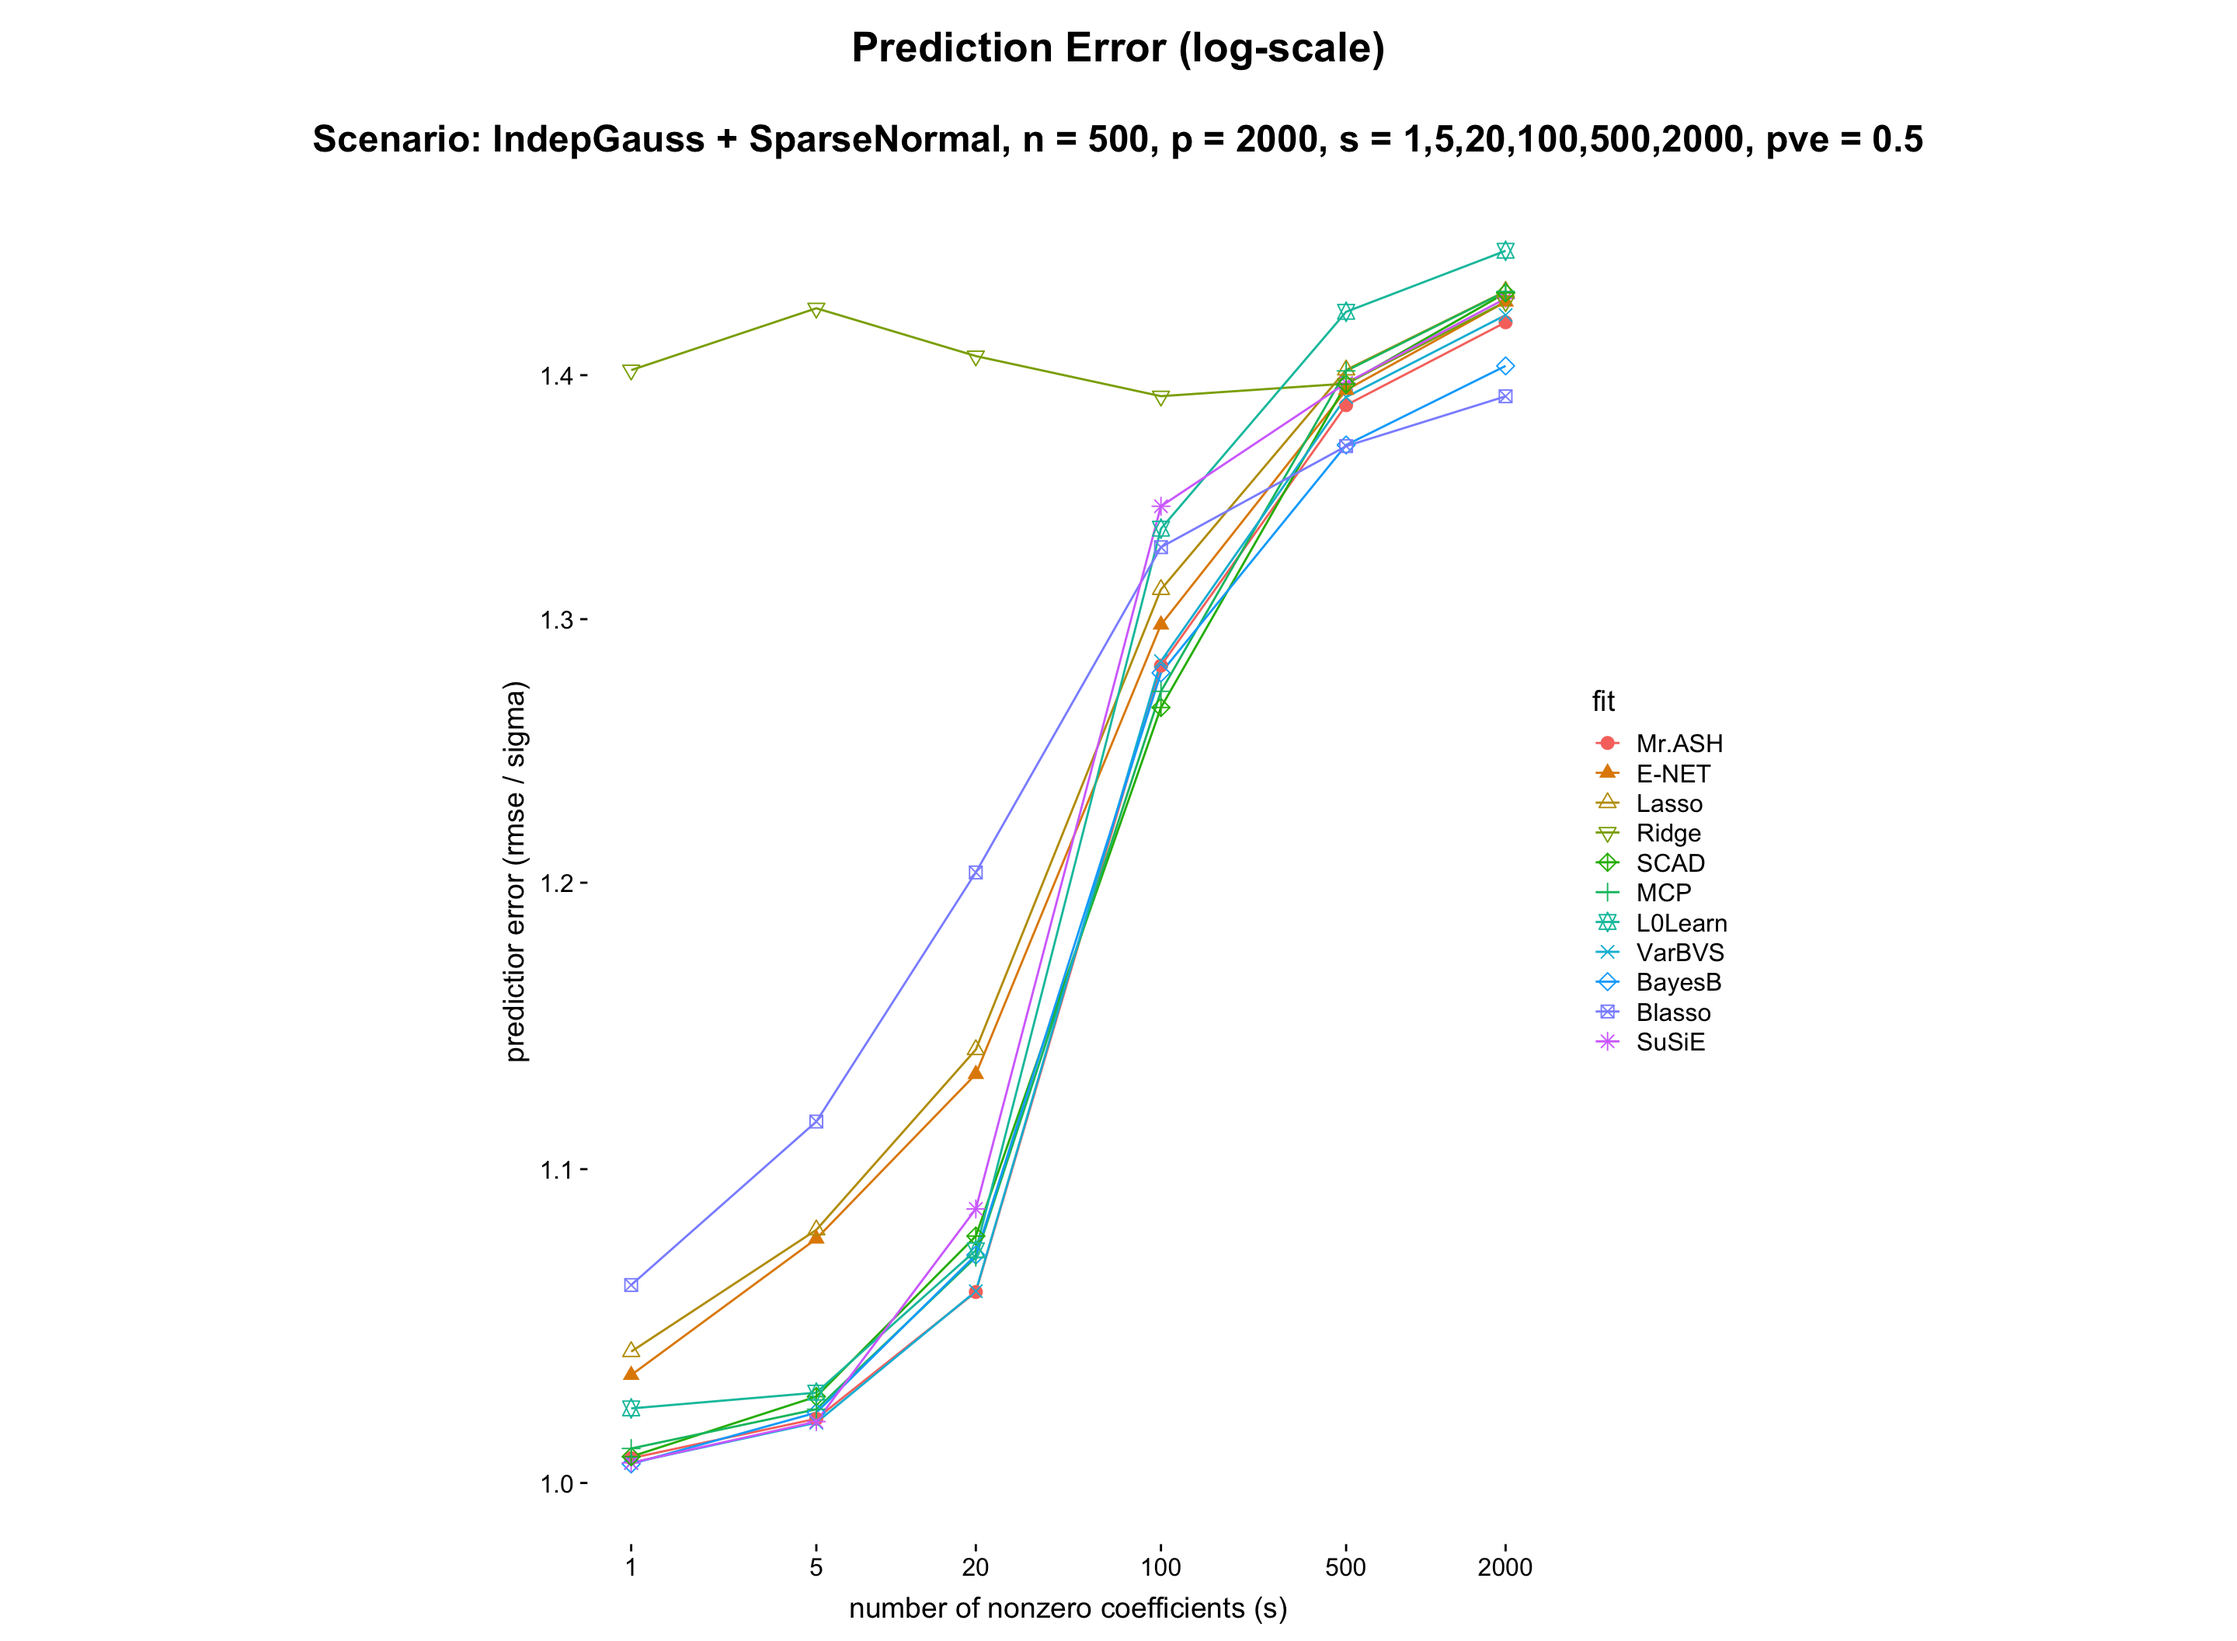
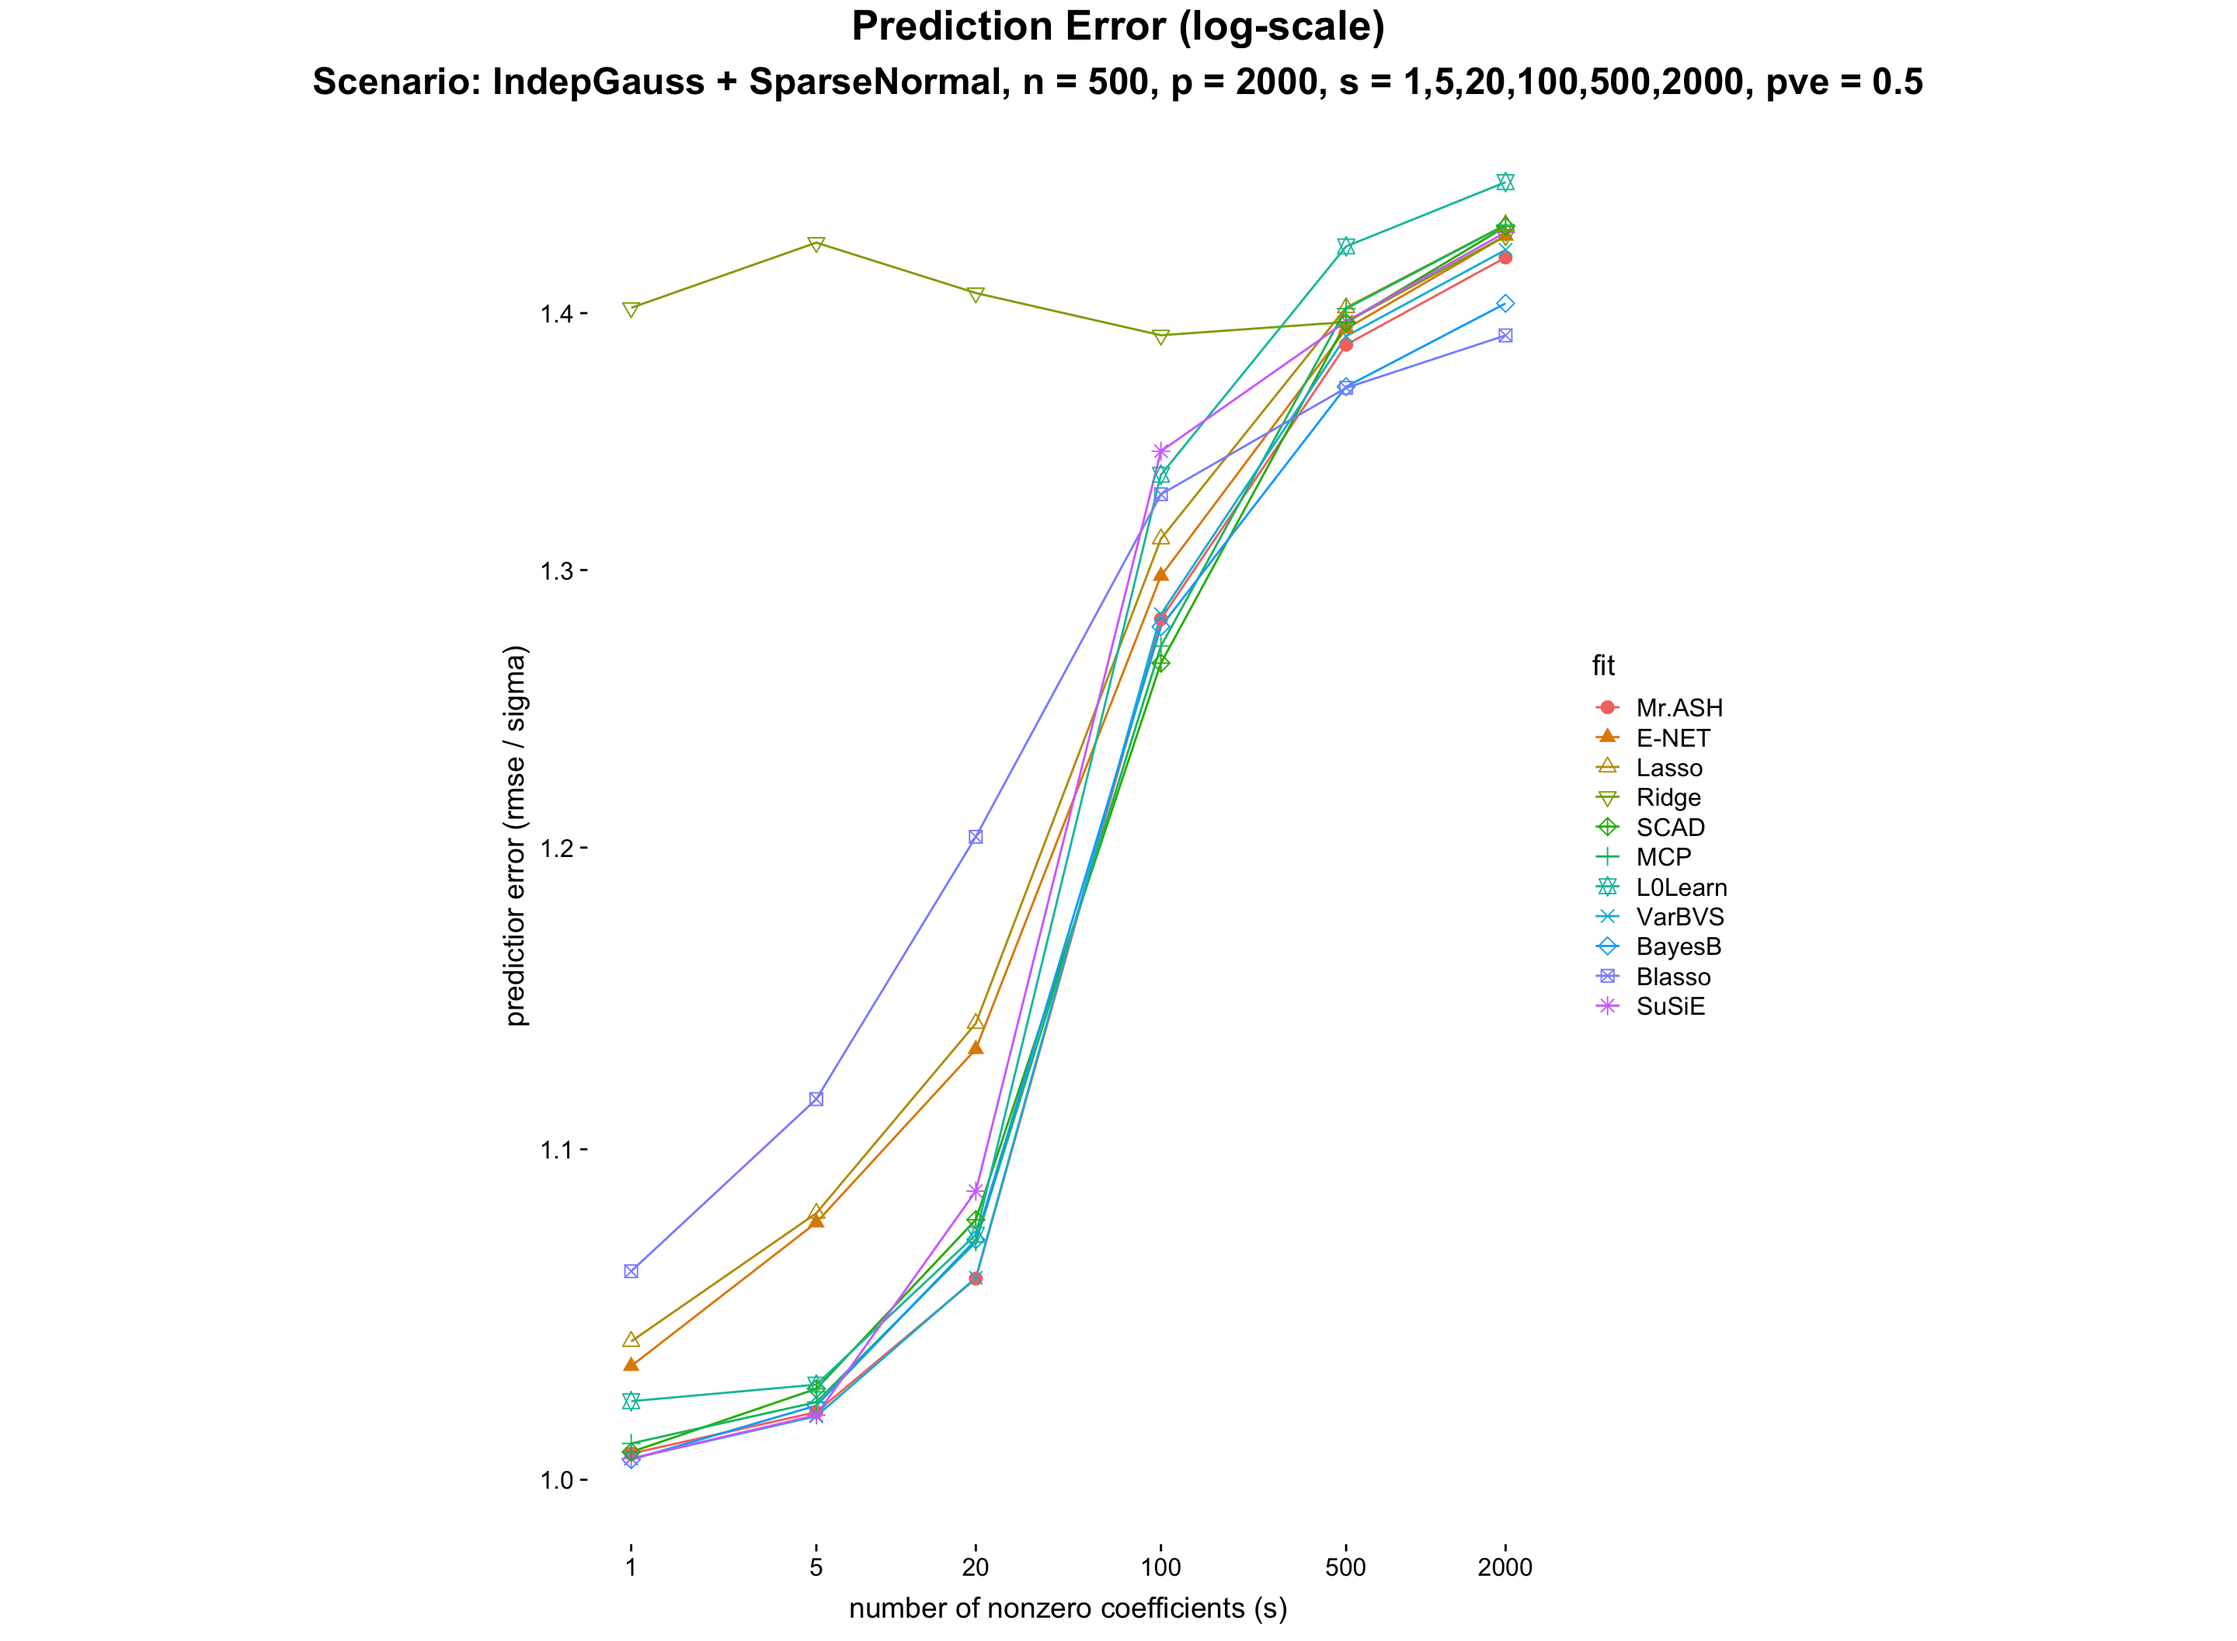
Build site.

diff --git a/docs/Plots_for_paper.html b/docs/Plots_for_paper.html
@@ -527,10 +527,10 @@ This reproducible <a href="http://rmarkdown.rstudio.com">R Markdown</a> analysis
 <div class="panel panel-default">
 <div class="panel-heading">
 <p class="panel-title">
-<a data-toggle="collapse" data-parent="#workflowr-checks" href="#strongRepositoryversionstrongahrefhttpsgithubcomstephenslabmrashworkflowtreeebfcea0cc584d2ceed5edbb444ada82fe2b41843targetblankebfcea0a"> <span class="glyphicon glyphicon-ok text-success" aria-hidden="true"></span> <strong>Repository version:</strong> <a href="https://github.com/stephenslab/mr-ash-workflow/tree/ebfcea0cc584d2ceed5edbb444ada82fe2b41843" target="_blank">ebfcea0</a> </a>
+<a data-toggle="collapse" data-parent="#workflowr-checks" href="#strongRepositoryversionstrongahrefhttpsgithubcomstephenslabmrashworkflowtree7a3e682d6e244693def77345d528873aa2cdd55dtargetblank7a3e682a"> <span class="glyphicon glyphicon-ok text-success" aria-hidden="true"></span> <strong>Repository version:</strong> <a href="https://github.com/stephenslab/mr-ash-workflow/tree/7a3e682d6e244693def77345d528873aa2cdd55d" target="_blank">7a3e682</a> </a>
 </p>
 </div>
[2 lines of base64/hex data omitted]
 <div class="panel-body">
 <p>
 Great! You are using Git for version control. Tracking code development and connecting the code version to the results is critical for reproducibility. The version displayed above was the version of the Git repository at the time these results were generated. <br><br> Note that you need to be careful to ensure that all relevant files for the analysis have been committed to Git prior to generating the results (you can use <code>wflow_publish</code> or <code>wflow_git_commit</code>). workflowr only checks the R Markdown file, but you know if there are other scripts or data files that it depends on. Below is the status of the Git repository when the results were generated:
@@ -543,7 +543,6 @@ Ignored files:
     Ignored:    ETA_1_parBayesB.dat
     Ignored:    analysis/ETA_1_lambda.dat
     Ignored:    analysis/ETA_1_parBayesB.dat
-    Ignored:    analysis/figure/
     Ignored:    analysis/mu.dat
     Ignored:    analysis/varE.dat
     Ignored:    mu.dat
@@ -594,6 +593,40 @@ Message
 </tr>
 </thead>
 <tbody>
+<tr>
+<td>
+Rmd
+</td>
+<td>
+<a href="https://github.com/stephenslab/mr-ash-workflow/blob/7a3e682d6e244693def77345d528873aa2cdd55d/analysis/Plots_for_paper.Rmd" target="_blank">7a3e682</a>
+</td>
+<td>
+Youngseok Kim
+</td>
+<td>
+2019-10-31
+</td>
+<td>
+wflow_publish(“analysis/Plots_for_paper.Rmd”)
+</td>
+</tr>
+<tr>
+<td>
+html
+</td>
+<td>
+<a href="https://rawcdn.githack.com/stephenslab/mr-ash-workflow/d1401c1e29d2f13e73a0e0d3dca3fe4af6d3d8a9/docs/Plots_for_paper.html" target="_blank">d1401c1</a>
+</td>
+<td>
+Youngseok Kim
+</td>
+<td>
+2019-10-31
+</td>
+<td>
+Build site.
+</td>
+</tr>
 <tr>
 <td>
 Rmd
@@ -1466,7 +1499,7 @@ title     = ggdraw() + draw_label(&quot;Prediction Error (log-scale)&quot;, font
 subtitle  = ggdraw() + draw_label(&quot;Scenario: IndepGauss + SparseNormal, n = 500, p = 2000, s = 1,5,20,100,500,2000, pve = 0.5&quot;, fontface  = &#39;bold&#39;, size = 18) 
 p0        = ggplot() + geom_blank() + theme_cowplot() + theme(axis.line = element_blank())
 fig_main  = plot_grid(p0,p1,p0, nrow = 1, rel_widths = c(0.3,0.8,0.3))
-fig       = plot_grid(title,subtitle,fig_main, ncol = 1, rel_heights = c(0.06,0.06,0.95))
+fig       = plot_grid(title,subtitle,fig_main, ncol = 1, rel_heights = c(0.03,0.04,0.95))
 fig</code></pre>
 <p><img src="figure/Plots_for_paper.Rmd/fig5-1.png" width="1440" style="display: block; margin: auto;" /></p>
 <p>
@@ -1491,6 +1524,17 @@ Date
 </tr>
 </thead>
 <tbody>
+<tr>
+<td>
+<a href="https://github.com/stephenslab/mr-ash-workflow/blob/d1401c1e29d2f13e73a0e0d3dca3fe4af6d3d8a9/docs/figure/Plots_for_paper.Rmd/fig5-1.png" target="_blank">d1401c1</a>
+</td>
+<td>
+Youngseok Kim
+</td>
+<td>
+2019-10-31
+</td>
+</tr>
 <tr>
 <td>
 <a href="https://github.com/stephenslab/mr-ash-workflow/blob/e145090a8a92786448421b4ca55583241f8247b1/docs/figure/Plots_for_paper.Rmd/fig5-1.png" target="_blank">e145090</a>
@@ -1539,7 +1583,7 @@ title     = ggdraw() + draw_label(&quot;Prediction Error (log-scale)&quot;, font
 subtitle  = ggdraw() + draw_label(&quot;Scenario: IndepGauss + SparseNormal, n = 500, p = 2000, pve = 0 - 0.9&quot;, fontface  = &#39;bold&#39;, size = 18) 
 p0        = ggplot() + geom_blank() + theme_cowplot() + theme(axis.line = element_blank())
 fig_main  = plot_grid(p0,p1,p0, nrow = 1, rel_widths = c(0.3,0.8,0.3))
-fig       = plot_grid(title,subtitle,fig_main, ncol = 1, rel_heights = c(0.06,0.06,0.95))
+fig       = plot_grid(title,subtitle,fig_main, ncol = 1, rel_heights = c(0.03,0.04,0.95))
 fig</code></pre>
 <p><img src="figure/Plots_for_paper.Rmd/fig6-1.png" width="1440" style="display: block; margin: auto;" /></p>
 <p>
@@ -1564,6 +1608,17 @@ Date
 </tr>
 </thead>
 <tbody>
+<tr>
+<td>
+<a href="https://github.com/stephenslab/mr-ash-workflow/blob/d1401c1e29d2f13e73a0e0d3dca3fe4af6d3d8a9/docs/figure/Plots_for_paper.Rmd/fig6-1.png" target="_blank">d1401c1</a>
+</td>
+<td>
+Youngseok Kim
+</td>
+<td>
+2019-10-31
+</td>
+</tr>
 <tr>
 <td>
 <a href="https://github.com/stephenslab/mr-ash-workflow/blob/e145090a8a92786448421b4ca55583241f8247b1/docs/figure/Plots_for_paper.Rmd/fig6-1.png" target="_blank">e145090</a>
@@ -1612,9 +1667,46 @@ title     = ggdraw() + draw_label(&quot;Prediction Error (log-scale)&quot;, font
 subtitle  = ggdraw() + draw_label(&quot;Scenario: IndepGauss + SparseNormal, n = 500, p = 50, 500, 5000, 50000, pve = 0.5&quot;, fontface  = &#39;bold&#39;, size = 18) 
 p0        = ggplot() + geom_blank() + theme_cowplot() + theme(axis.line = element_blank())
 fig_main  = plot_grid(p0,p1,p0, nrow = 1, rel_widths = c(0.3,0.8,0.3))
-fig       = plot_grid(title,subtitle,fig_main, ncol = 1, rel_heights = c(0.06,0.06,0.95))
+fig       = plot_grid(title,subtitle,fig_main, ncol = 1, rel_heights = c(0.03,0.04,0.95))
 fig</code></pre>
 <p><img src="figure/Plots_for_paper.Rmd/fig7-1.png" width="1440" style="display: block; margin: auto;" /></p>
+<p>
+<button type="button" class="btn btn-default btn-xs btn-workflowr btn-workflowr-fig" data-toggle="collapse" data-target="#fig-fig7-1">
+Past versions of fig7-1.png
+</button>
+</p>
+<div id="fig-fig7-1" class="collapse">
+<div class="table-responsive">
+<table class="table table-condensed table-hover">
+<thead>
+<tr>
+<th>
+Version
+</th>
+<th>
+Author
+</th>
+<th>
+Date
+</th>
+</tr>
+</thead>
+<tbody>
+<tr>
+<td>
+<a href="https://github.com/stephenslab/mr-ash-workflow/blob/d1401c1e29d2f13e73a0e0d3dca3fe4af6d3d8a9/docs/figure/Plots_for_paper.Rmd/fig7-1.png" target="_blank">d1401c1</a>
+</td>
+<td>
+Youngseok Kim
+</td>
+<td>
+2019-10-31
+</td>
+</tr>
+</tbody>
+</table>
+</div>
+</div>
 <br>
 <p>
 <button type="button" class="btn btn-default btn-workflowr btn-workflowr-sessioninfo" data-toggle="collapse" data-target="#workflowr-sessioninfo" style="display: block;">
